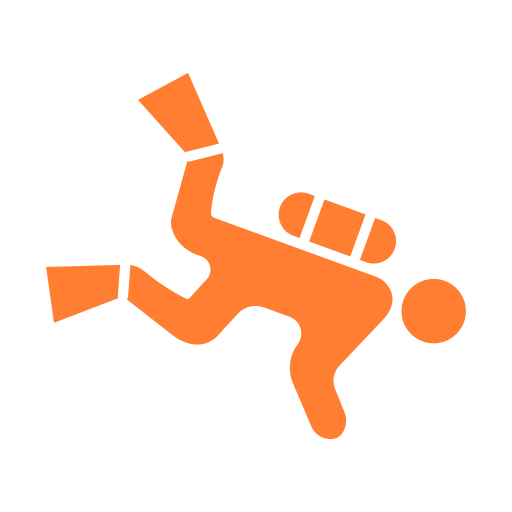
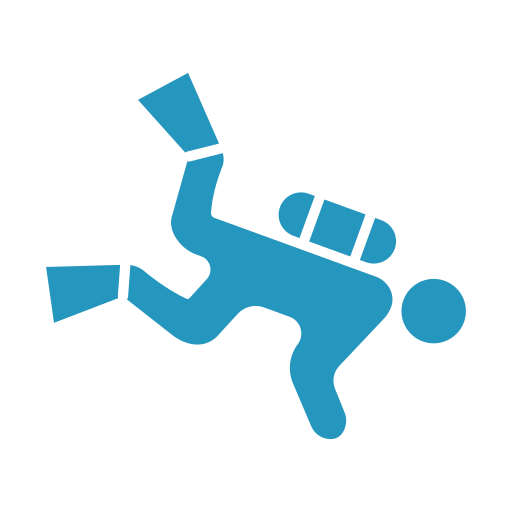
fix

Changed region(s): [[0.0938, 0.125, 0.9375, 0.875]]

diff --git a/src/pages/Infos/Activities.module.css b/src/pages/Infos/Activities.module.css
@@ -11,7 +11,7 @@
   .title {
     font-size: 2rem;
     margin-bottom: 30px;
-    color: #333;
+    color: #04384B;
   }
   
   /* Wrapper for all service cards */
@@ -25,7 +25,7 @@
   
   /* Individual service card */
   .serviceCard {
-    background-color: #f8f9fa;
+    background-color: #EEE0D7;
     border-radius: 8px;
     padding: 20px 15px;
     box-shadow: 0 2px 6px rgba(0, 0, 0, 0.1);
@@ -51,7 +51,7 @@
   .serviceTitle {
     font-size: 0.8rem;
     margin-bottom: 10px;
-    color: #444;
+    color: #04384B;
   }
   
   /* Service description styling */
@@ -74,7 +74,7 @@
   
   /* Button styling */
   .serviceButton {
-    background-color: #ff7e31;
+    background-color: #2596BE;
     color: #ffffff;
     font-weight: bolder;
     border: none;
@@ -85,7 +85,7 @@
   }
   
   .serviceButton:hover {
-    background-color: #f96b1f;
+    background-color: #E7C9AF;
   }
   
   /* Responsive adjustments */

diff --git a/src/pages/Infos/Activities.jsx b/src/pages/Infos/Activities.jsx
@@ -66,7 +66,7 @@ function Activities() {
     {
       icon: alikoBeachImg,
       altText: "Aliko beach icon",
-      title: "Aliko beach (Hawaii & Kedros)",
+      title: "Aliko Beach",
       description:
         "Aliko is a wonderful peninsula with some very beautiful beaches, located on the south western side of Naxos, Cyclades. The most famous beach is called Hawaii and the nudism-friendly beach of Kedros. You can approach Kedros on foot from Hawaii since the beaches are adjoining. Above the beaches of Aliko, there is a unique cedar forest with marvellous sand dunes. This forest has been declared a protected natural area and creates an exotic landscape.",
     },
